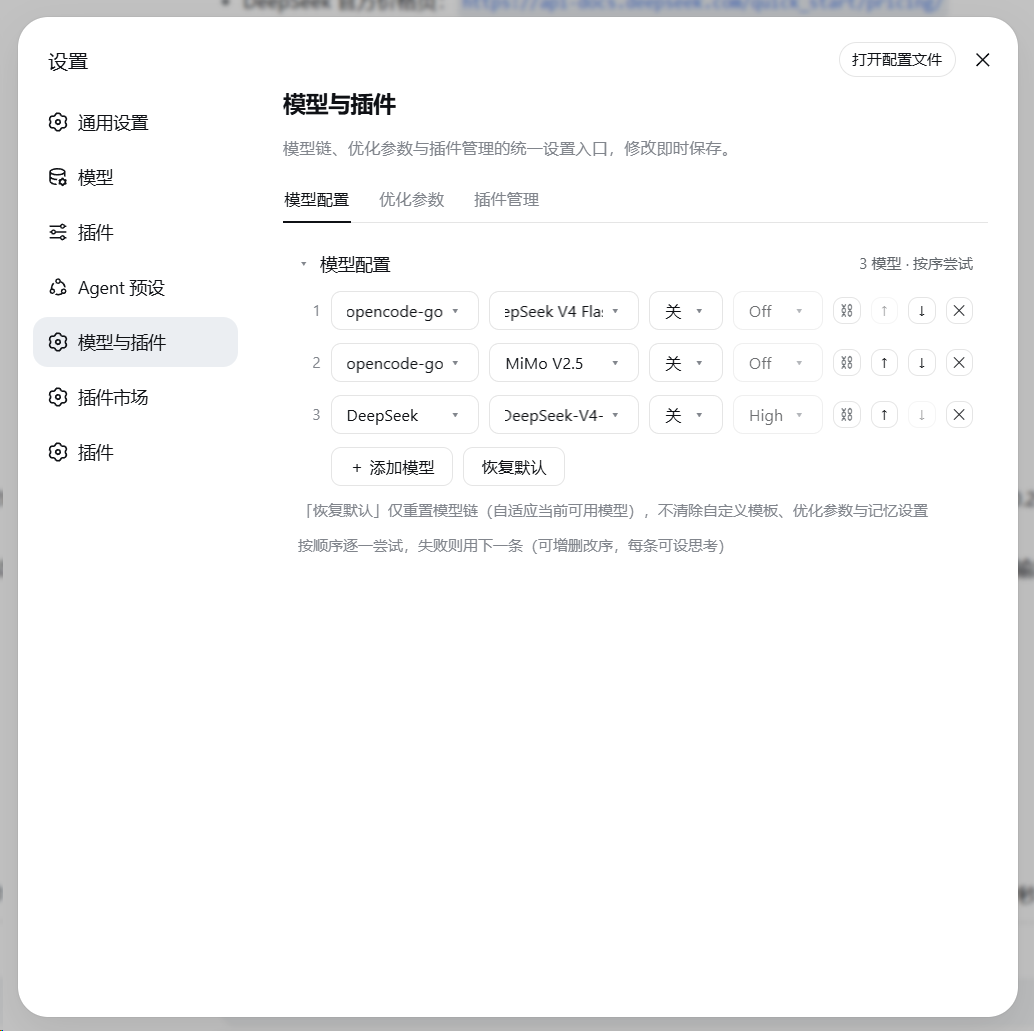
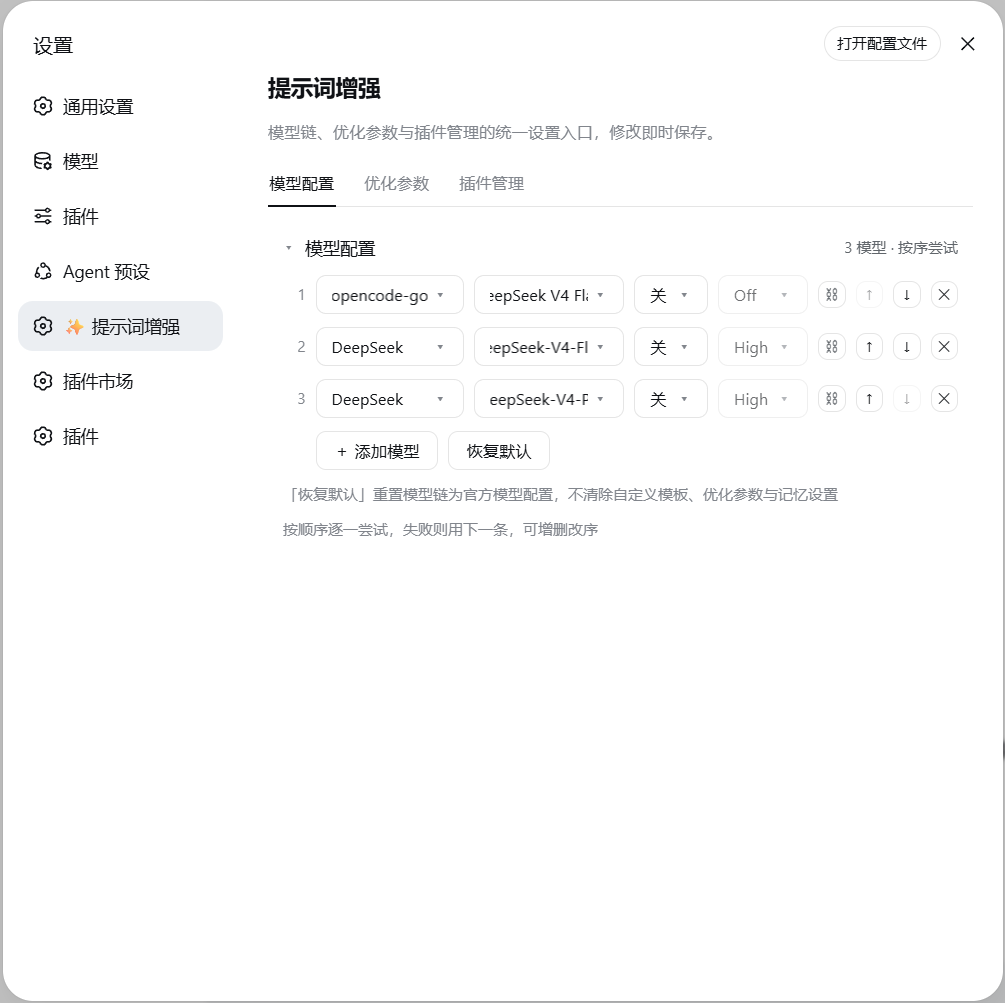
docs(readme): 功能亮点加 emoji 化 + 效果展示改单图单行 + 替换截图

diff --git a/README.en.md b/README.en.md
@@ -8,12 +8,12 @@ A DeepSeek Harness (DSH) plugin with two core capabilities: **prompt enhancement
 
 ## ✨ Highlights
 
-- **One-click enhance** — the ✨ button triggers an independent LLM call and replaces the draft in place; continue refining, undo anytime, or cancel while enhancing
-- **5 optimization modes** — Basic (direct) / Lite (previous-round context) / Standard (rules + retrieval) / Expert (task analysis + full retrieval) / One-click Publish (complete dev-spec generator)
-- **Memory switch** — when on, pre-send rounds (optimize → edit → re-optimize) accumulate into a memory chain the next round replays and senses your edit direction; sending the message clears it; when off, nothing is read or written
-- **Model chain** — try multiple models in order, reorder, toggle thinking, run inline connectivity tests
+- **✨ One-click enhance** — the ✨ button triggers an independent LLM call and replaces the draft in place; continue refining, undo anytime, or cancel while enhancing
+- **📋 5 optimization modes** — Basic (direct) / Lite (previous-round context) / Standard (rules + retrieval) / Expert (task analysis + full retrieval) / One-click Publish (complete dev-spec generator)
+- **🧠 Memory switch** — when on, pre-send rounds (optimize → edit → re-optimize) accumulate into a memory chain the next round replays and senses your edit direction; sending the message clears it; when off, nothing is read or written
+- **🔗 Model chain** — try multiple models in order, reorder, toggle thinking, run inline connectivity tests
 - **🔁 One-click restart (standalone feature)** — restart DSH even when the web UI is down: double-click the desktop shortcut (whale icon) or invoke the CLI directly; supports service-managed (Windows/Linux/macOS) and process-level fallback restart
-- **i18n** — follows the DSH interface language (中文 / English)
+- **🌐 i18n** — follows the DSH interface language (中文 / English)
 
 ## 🚀 Install
 
@@ -57,9 +57,13 @@ Core logic lives in standalone Node modules, reusable from other scripts: `lib/s
 
 ## 📸 See it work
 
-| Model Configuration | Optimization Parameters |
-|---|---|
-| ![Model Configuration](docs/screenshots/settings-models.png) | ![Optimization Parameters](docs/screenshots/settings-params.png) |
+**Model configuration** (try multiple models in order):
+
+![Model configuration](docs/screenshots/settings-models.png)
+
+**One-click restart CLI** (recover from the CLI when the service is down):
+
+![One-click restart CLI](docs/screenshots/restart-cli.png)
 
 ## ⚙ Configuration
 
